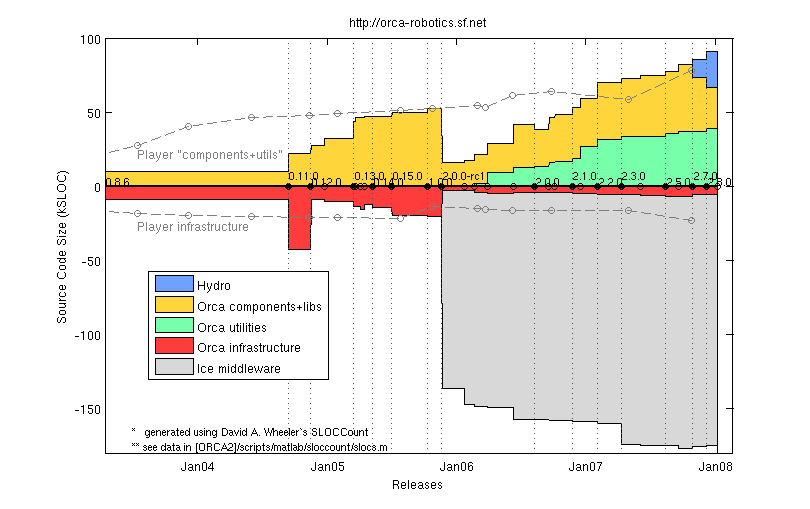
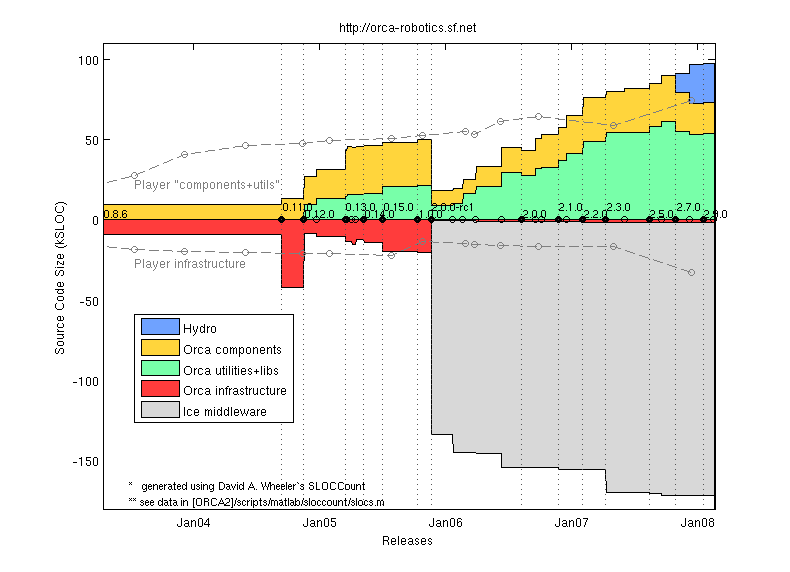
reclassified code into [comps] and [utils+libs]
git-svn-id: https://orca-robotics.svn.sf.net/svnroot/orca-robotics/orca/trunk@3806 534d5172-be3c-0410-9a3e-ccaa6372a113

diff --git a/scripts/matlab/sloccount/slocs.m b/scripts/matlab/sloccount/slocs.m
@@ -46,31 +46,34 @@ Sorca = [ ...
 % 0.8.6: a single distro, divide in halves arbitrarily
 2003     4  14  1   0       18930/2     18930/2             0   0   % 0.8.6 (last change in doc/ChangeLog
 % BASE: orca-base
-% COMP: orca-components
-2004     9  13  1   0       42543       21726               0   0   % 0.11.0
-2004    11  16  1   0       8963        27310               0   0   % 0.12.0
-2004    12  23  0   0       10596       31845               0   0   % 0.12.1
-2005     3  16  1   0       13767       43576               0   0   % 0.13.0
-2005     3  21  0   0       13620       45874               0   0   % 0.13.1
-2005     4   4  0   0       15630       45944               0   0   % 0.13.2
-2005     4  16  0   0       12283       46666               0   0   % 0.13.3
-2005     5   9  1   0       14639       46837               0   0   % 0.14.0
-2005     7   2  1   0       19751       49854               0   0   % 0.15.0
-2005    10  11  1   0       20818       52408               0   0   % 1.0.0
-% BASE: just orcaice w/out test + interfaces/slice
-% COMP: comp + util - orcaice 
-2005    11  20  1   Sice212 2320+530    9226+8781-2320      0   0   % 2.0.0-rc1
-2006     1  22  0   Sice301 2511+596    9801+9695-2511      0   0   % 2.0.0-rc2
-% UTIL: sloccount components/log* 
-2006     2  20  0   Sice301 3369+813    9867+14734-3369-1372 1372    0  % 2.0.0-rc3
-% UTIL: sloccount components/orcaview/ components/log* utils/orcalog* utils/orcagui/ utils/orcaobj/
-2006     3  29  0   Sice301 4022+1052   14625+18131-4022-9307 9307   0  % 2.0.0-rc4
-2006     6  11  0   Sice310 3439+1116   19999+24867-3439-12670 12670 0  % 2.0.0-rc5  
-2006     8   9  1   Sice310 3482+1116   19979+21711-3482-13111 13111 0  % 2.0.0
-2006     9  18  0   Sice310 3647+1094   19317+30847-3647-15704 15704 0  % 2.0.1
-2006    10   5  0   Sice310 3644+1094   20384+31798-3644-16329 16329 0  % 2.0.2
-% UTIL: sloccount components/orcaview* components/log* utils/orcalog* utils/orcagui* utils/orcaobj/
-2006    11  23  1   Sice311 3831+1178   21408+35311-3831-18359 18359 0  % 2.1.0
+% COMP: sloccount orca-components/src/components
+% UTIL: slocc orca-components/src/util
+2004     9  13  1   0       42543   13047   0       0   % 0.11.0
+2004    11  16  1   0       8963    17208   9441    0   % 0.12.0
+2004    12  23  0   0       10596   17965   13094   0   % 0.12.1
+2005     3  16  1   0       13767   28881   14005   0   % 0.13.0
+2005     3  21  0   0       13620   29524   15665   0   % 0.13.1
+2005     4   4  0   0       15630   29345   15727   0   % 0.13.2
+2005     4  16  0   0       12283   29897   15724   0   % 0.13.3
+2005     5   9  1   0       14639   29838   16056   0   % 0.14.0
+2005     7   2  1   0       19751   27479   20395   0   % 0.15.0
+2005    10  11  1   0       20818   28675   21303   0   % 1.0.0
+% BASE: interfaces/slice
+% COMP: sloccount src/components
+% UTIL: sloccount src/utils
+2005    11  20  1   Sice212 530    9226         8781        0   % 2.0.0-rc1
+2006     1  22  0   Sice301 596    9801         9695        0   % 2.0.0-rc2
+% UTIL-IN-COMP: sloccount components/log* 
+% COMP: sloccount components MINUS UTIL-IN-COMP
+% UTIL: sloccount utils PLUS UTIL-IN-COMP
+2006     2  20  0   Sice301 813    9867-1372    14734+1372  0  % 2.0.0-rc3
+% UTIL-IN-COMP: sloccount components/orcaview* components/log*
+2006     3  29  0   Sice301 1052   14625-2421   18131+2421  0  % 2.0.0-rc4
+2006     6  11  0   Sice310 1116   19999-4215   24867+4215  0  % 2.0.0-rc5  
+2006     8   9  1   Sice310 1116   19979-4348   23066+4348  0  % 2.0.0
+2006     9  18  0   Sice310 1094   19317-329    31304+329   0  % 2.0.1
+2006    10   5  0   Sice310 1094   20384-329    32255+329   0  % 2.0.2
+2006    11  23  1   Sice311 1178   21408-1001   35768+1001  0  % 2.1.0
 % BASE: cd src; sloccount libs/orcaice/ 
 %          MINUS sloccount libs/orcaice/test 
 %          PLUS sloccount interfaces/slice
@@ -78,18 +81,23 @@ Sorca = [ ...
 %          MINUS sloccount libs/orcaice* libs/orcaq* libs/orcalog* libs/orcaprobe* libs/orcawall* libs/orcaobj libs/orcaobjutil/
 % UTIL: cd src; sloccount utils libs/orcaq* libs/orcalog* libs/orcaprobe* libs/orcawall* libs/orcaobj libs/orcaice*
 %          MINUS sloccount libs/orcaice/
+%
+%
+% BASE: sloccount src/interfaces/slice
+% COMP: sloccount src/components
+% UTIL: sloccount src/utils src/libs
 % to count lines in *.ice files, rename them to *.cpp like this:
 % $cd src/interfaces/slice/orca; for file in *; do mv $file `echo $file | sed s/.ice/.cpp/`; done
-2006    12  17  0   Sice311 5615-1784+1240  60241-28024     32398-5615  0   % 2.1.1
-2007     2   2  1   Sice311 6225-2011+1671  70376-31989     37297-6225  0   % 2.2.0
-2007     4  10  1   Sice320 6232-2011+1671  72704-34165     39894-6232  0   % 2.3.0
-2007     6   3  0   Sice320 6837-2056+1682  75506-34316     40074-6837  0   % 2.4.0
-2007     8  13  1   Sice320 7247-2226+1772  78939-36926     42700-7247  0    % 2.5.0
-2007     9  18  0   Sice321 7919-2572+1787  83838-38743     44694-7919  0    % 2.6.0
+2006    12  17  0   Sice311 1240    23701   40914  0   % 2.1.1
+2007     2   2  1   Sice311 1671    27238   48446  0   % 2.2.0
+2007     4  10  1   Sice320 1671    25512   53828  0   % 2.3.0
+2007     6   3  0   Sice320 1682    26905   54359  0   % 2.4.0
+2007     8  13  1   Sice320 1772    26795   57918  0    % 2.5.0
+2007     9  18  0   Sice321 1787    28573   61216  0    % 2.6.0
 % A&D: Hydro: sloccount src
-2007    10  28  1   Sice321 5481-1528+1787  72748-36062     42043-5481  12251    % 2.7.0
-2007    12   7  0   Sice321 5376-1558+1750  64158-36410     44169-5376  24104    % 2.8.0
-2008     1  17  1   Sice321 5453-1558+1750  64784-36410     44484-5376  24587    % 2.9.0
+2007    10  28  1   Sice321 1787    23840   54879  12251    % 2.7.0
+2007    12   7  0   Sice321 1750    19312   52762  24104    % 2.8.0
+2008     1  17  1   Sice321 1750    19276   53227  24657    % 2.9.0
 ];
 Vorca ={'0.8.6', '0.11.0', '0.12.0', '0.12.1', '0.13.0', '0.13.1', '0.13.2', '0.13.3', '0.14.0', '0.15.0', '1.0.0', ...
     '2.0.0-rc1', '2.0.0-rc2', '2.0.0-rc3', '2.0.0-rc4', '2.0.0-rc5', '2.0.0', '2.0.1', '2.0.2', '2.1.0', '2.1.1', ...
@@ -235,9 +243,9 @@ set(ha(4),'facecolor', green);
 set(ha(5),'facecolor', orange);
 set(ha(6),'facecolor', blue);
 ha(1)=[];
-legend(fliplr(ha),'Hydro','Orca components+libs','Orca utilities','Orca infrastructure','Ice middleware', 'Location','NorthWest')
+legend(fliplr(ha),'Hydro','Orca components','Orca utilities+libs','Orca infrastructure','Ice middleware', 'Location','NorthWest')
 %  xlim(datenum([2004;2005],[7;7],[1;1]) )
-ylim([-Smax 100])
+ylim([-Smax 110])
 ax=axis;
 %  xlim( [ax(1) datenum([2006 12 31])] )
 ax=axis;
